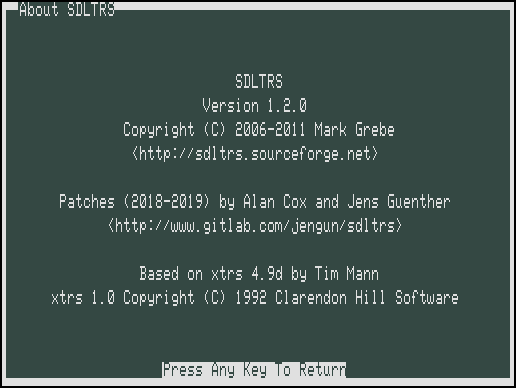
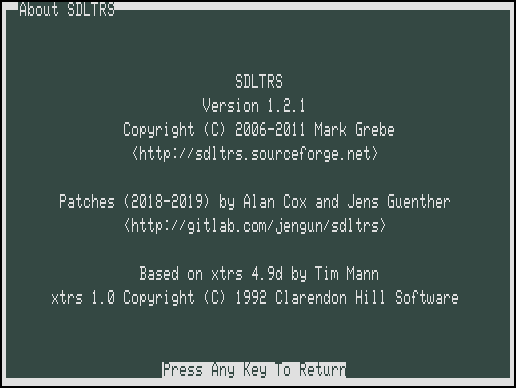
Release version 1.2.1

Changed region(s): [[0.2171, 0.5567, 0.7752, 0.6186], [0.5581, 0.2474, 0.5891, 0.2784]]

diff --git a/docs/ReleaseHistory.html b/docs/ReleaseHistory.html
@@ -20,6 +20,13 @@
   </tr>
 </table>
 
+<h3><u>Version 1.2.1 Release 07-24-2019</u>:</h3>
+<ul>
+  <li>Added LED for Turbo Mode.</li>
+  <li>Fixed various bugs.</li>
+  <li>SDL2 port should be stable.</li>
+</ul>
+
 <h3><u>Version 1.2.0 Release 06-09-2019</u>:</h3>
 <ul>
   <li>Included support for banked memory and Lowe LE18 by Alan Cox.</li>

diff --git a/src/trs_sdl_gui.c b/src/trs_sdl_gui.c
@@ -2684,11 +2684,11 @@ void trs_gui_about_sdltrs(void)
   trs_gui_write_text("About SDLTRS", 2, 0, 0);
 
   trs_gui_center_text("SDLTRS", 3, 0);
-  trs_gui_center_text("Version 1.2.0", 4, 0);
+  trs_gui_center_text("Version 1.2.1", 4, 0);
   trs_gui_center_text("Copyright (C) 2006-2011 Mark Grebe", 5, 0);
   trs_gui_center_text("<http://sdltrs.sourceforge.net>", 6, 0);
   trs_gui_center_text("Patches (2018-2019) by Alan Cox and Jens Guenther", 8, 0);
-  trs_gui_center_text("<http://www.gitlab.com/jengun/sdltrs>", 9, 0);
+  trs_gui_center_text("<http://gitlab.com/jengun/sdltrs>", 9, 0);
   trs_gui_center_text("Based on xtrs 4.9d by Tim Mann", 11, 0);
   trs_gui_center_text("xtrs 1.0 Copyright (C) 1992 Clarendon Hill Software", 12, 0);
   trs_gui_center_text("Press Any Key To Return", 15, 1);
